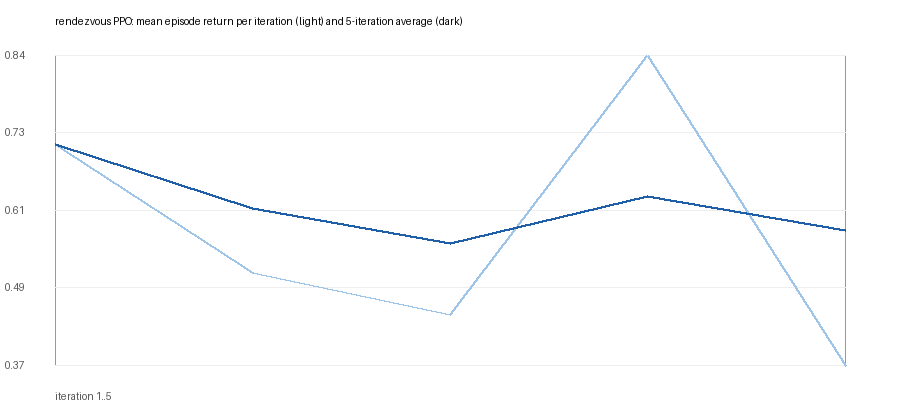
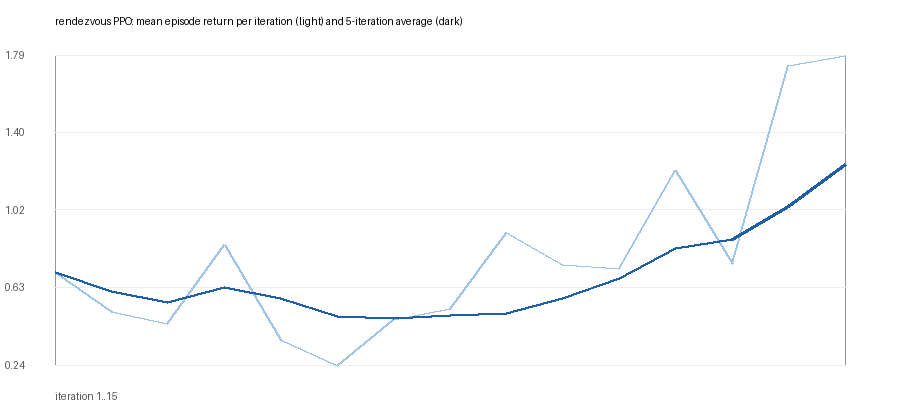
First learning curve: PPO on rendezvous, iteration 15

diff --git a/docs/journal.md b/docs/journal.md
@@ -21,6 +21,7 @@ how to run things lives in `CLAUDE.md`. Rule from the user: commit and push afte
 Screenshots and clips for the user go in `docs/media/` (commit them) with a one-line caption in the log below.
 
 ## Log (newest first)
+- 2026-10-26 00:00: FIRST LEARNING: PPO (pzrl/train.py, shared policy, torch CPU) on rendezvous (2 agents, no zombies, 150x150 spawn box, fake backend at 4x): mean return 0.37 -> 0.75 -> 1.79 at iterations 5/10/15, final pair distance 95 -> 73 -> 61 tiles. Picture: docs/media/rendezvous_learning_iter15.png (run: logs/train_rendezvous4.out, checkpoint models/rendezvous.pt, curve models/rendezvous.png). Run continues to iteration 80 then evaluates against the scripted baseline.
 - 2026-10-25 23:00: rendered fighting investigated (docs/approach.md, last section): hits land but do ~0.19 of a zombie's health on average and staggers block swings, so 0 kills in 4 episodes with the improved swing; dev file v1 is NOT folded into RLBot.lua. Decision: move on to training PPO (torch CPU is installed) on the fake backend for survive/rendezvous first and evaluate on the rendered backend; revisit fighting later (try holding the attack for charge, backing away between swings).
 - 2026-10-25 22:30: matched comparison done, see docs/approach.md: idle damage matches (82-92 both), fighting does not (fake kills 2/2 for 2-18 damage, rendered 0 kills and ~85 damage in 4 of 5).
 - 2026-10-25 22:10: DO NOT send the RLBot `shot` command: `getCore():TakeScreenshot()` kills the rendered client's JVM without a log line (twice). Media must come from elsewhere (data-driven plots, or a window capture if the screen is on). Also found: a real client's position is client-authoritative (server `teleportTo` does nothing; RLBot `tp` does the move), the server anti-cheat kicks that teleport for speed (all AntiCheat* options are set to 4 = off in .pzdata/Server/rl.ini, research server only), and a teleport of ~750 tiles can crash the client (keep spawn boxes small).
